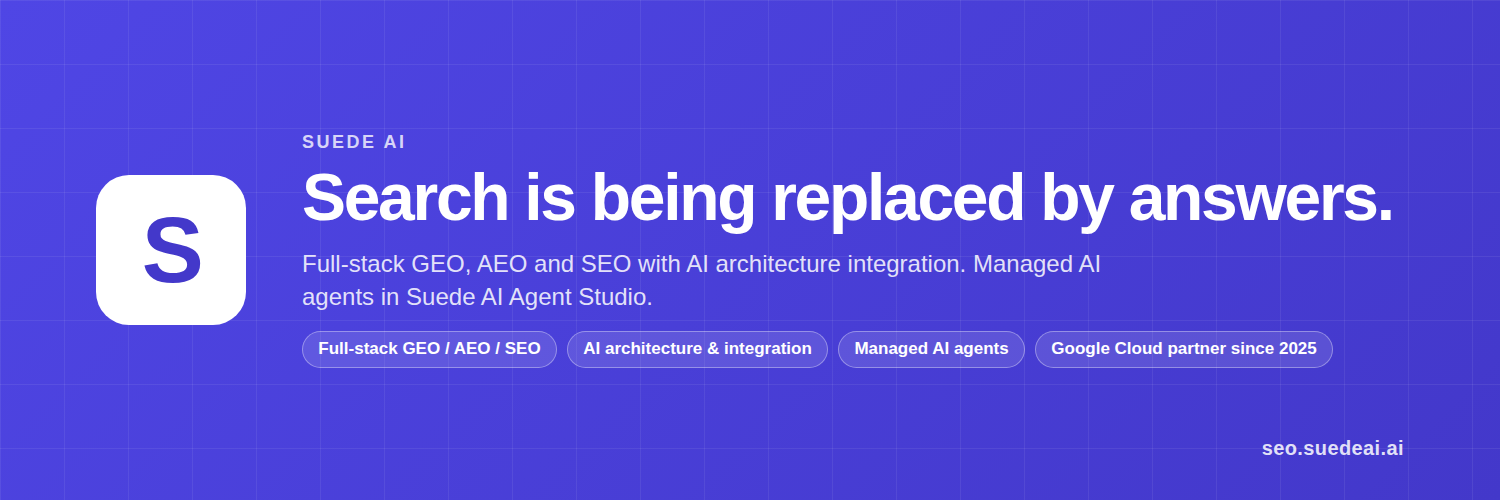
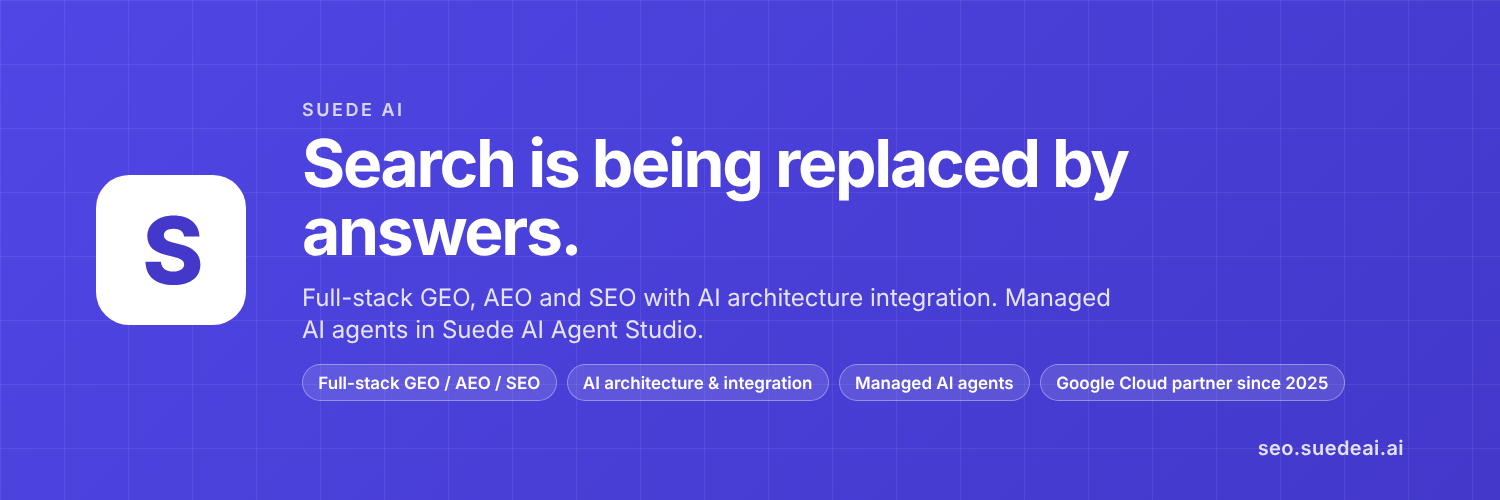
profile: bring every claim in line with the live counts and seo.suedeai.ai
The weekly guard has failed on main since 2026-09-28: the live count is
54 merged pull requests across 46 repositories, and the README still said
50 across 44. The four missing merges are coreos/ignition#2301 and #2302,
TurboDocx/html-to-docx#229 and XRPLF/xrpl.js#3430, all named in the
personal profile's changelog. Their diff stats come from the upstream
merge commits (+500 / -16), reproduced the same way for #2303 and #2326
first, which match the figures already published here. The split is
restated as 33 substantive and 21 listings, the same as every other
surface.

The social kit carried the count too, and nothing checked it: the
LinkedIn headline said 50 and the X founder header said 49. The guard now
audits both files, and two tests compare them with the README on every
pull request, so the next drift fails CI. Its messages name the file
that drifted.

Other facts aligned with the canonical record at seo.suedeai.ai and the
personal profile:

- 30-minute call, not 15 (the site says 30-minute throughout)
- West Palm Beach, Florida, matching the practice's schema address
- info@suedeai.ai as the contact, the address leads are routed to
- the offer ladder: free teardown, fixed-fee 30-day sprint quoted case
  by case, then the monthly SEO and GEO retainer
- thirteen feature placements across seven outlets, now including
  Gigawatt Group and MSN
- fifteen skills catalogs, adding davepoon/buildwithclaude#305
[…]

diff --git a/social/images-src/x-header-founder.html b/social/images-src/x-header-founder.html
@@ -45,6 +45,6 @@
     <div class="mark" style="width:150px;height:150px;font-size:93px">S</div>
     <div class="text"><div class="kicker">Jason Colapietro · Founder, Suede AI</div><h1>I ship the fixes AI answers are built from.</h1>
       <div class="lede">Full-stack GEO, AEO and SEO with AI architecture integration, delivered as pull requests with a source diff.</div>
-      <div class="chips"><span class="chip">Full-stack GEO / AEO / SEO</span><span class="chip">AI architecture & integration</span><span class="chip">49 upstream PRs merged</span><span class="chip">Five books</span></div>
+      <div class="chips"><span class="chip">Full-stack GEO / AEO / SEO</span><span class="chip">AI architecture & integration</span><span class="chip">54 upstream PRs merged</span><span class="chip">Eight books</span></div>
     </div>
   </div><div class="url">seo.suedeai.ai</div></div></body></html>

diff --git a/profile/README.md b/profile/README.md
@@ -2,15 +2,15 @@
 
 **Full-stack GEO, AEO and SEO with AI architecture integration — founder of [Suede AI](https://seo.suedeai.ai)**  
 I make companies the answer when ChatGPT, Perplexity, Gemini and Google’s AI results get asked about their category, then wire AI into the operation behind the answer.  
-Jupiter / West Palm Beach, Florida · [Book a 15-minute call](https://calendar.app.google/8FyvYAspZaQFFP5eA) · [(561) 401-0518](tel:+15614010518)
+West Palm Beach, Florida · [Book a 30-minute call](https://calendar.app.google/8FyvYAspZaQFFP5eA) · [(561) 401-0518](tel:+15614010518)
 
 [![Free AI Citation Check](https://img.shields.io/badge/free-AI%20citation%20check-ff6f00?style=for-the-badge&logo=perplexity&logoColor=white)](https://seo.suedeai.ai/ai-citation-check)
 [![Google Cloud](https://img.shields.io/badge/Google%20Cloud%20partner-Vertex%20AI-4285F4?style=for-the-badge&logo=googlecloud&logoColor=white)](https://seo.suedeai.ai)
 [![Contributions](https://img.shields.io/badge/contributions%20since%20May-12%2C280-181717?style=for-the-badge&logo=git&logoColor=white)](https://github.com/JasonColapietro)
-[![Upstream merged](https://img.shields.io/badge/upstream%20merged-50%20PRs%20%2F%2044%20repos-2ea44f?style=for-the-badge&logo=github&logoColor=white)](#selected-upstream-contributions)
+[![Upstream merged](https://img.shields.io/badge/upstream%20merged-54%20PRs%20%2F%2046%20repos-2ea44f?style=for-the-badge&logo=github&logoColor=white)](#selected-upstream-contributions)
 [![Open-source skills](https://img.shields.io/badge/open--source%20skills-76-8A2BE2?style=for-the-badge&logo=anthropic&logoColor=white)](#skill-catalogs--awesome-lists)
-[![Patent](https://img.shields.io/badge/USPTO-63%2F947%2C120%20pending-0A66C2?style=for-the-badge)](https://suedeai.ai)
-[![Book a call](https://img.shields.io/badge/book%20a%2015--min%20call-open%20calendar-1a7f37?style=for-the-badge&logo=googlecalendar&logoColor=white)](https://calendar.app.google/8FyvYAspZaQFFP5eA)
+[![Patents](https://img.shields.io/badge/USPTO-5%20provisional%20applications-0A66C2?style=for-the-badge)](https://suedeai.ai)
+[![Book a call](https://img.shields.io/badge/book%20a%2030--min%20call-open%20calendar-1a7f37?style=for-the-badge&logo=googlecalendar&logoColor=white)](https://calendar.app.google/8FyvYAspZaQFFP5eA)
 
 <p align="left">
   <img height="165" src="https://github-readme-stats.vercel.app/api?username=JasonColapietro&show_icons=true&include_all_commits=true&count_private=true&hide_border=true&theme=github_dark&custom_title=Jason%20Colapietro%20%E2%80%94%2012%2C280%20contributions" alt="GitHub stats" />
@@ -29,21 +29,21 @@ What separates this from the rest of the category is that I ship the fixes. Most
 
 | | |
 |---|---|
-| **Free** | [AI Citation Check](https://seo.suedeai.ai/ai-citation-check) &mdash; four buyer questions put to real engines, and which sites they cited instead of you |
-| **Then** | A 30-day answer-share sprint at a fixed fee, measured before and after on a prompt set you approve |
-| **Then** | Managed agents on a monthly retainer, reported against the same prompts |
+| **Free** | The teardown, back within three business days: your answer share, the buyer prompts where an engine named someone else, and a prioritized fix list. Or run the self-serve [AI Citation Check](https://seo.suedeai.ai/ai-citation-check) first |
+| **Then** | A fixed-fee 30-day answer-share sprint, quoted case by case, measured before and after on a prompt set you approve |
+| **Then** | Compound: a monthly SEO and GEO retainer that builds on the sprint, reported against the same prompts |
 
-[Book 15 minutes](https://calendar.app.google/8FyvYAspZaQFFP5eA) &middot; [(561) 401-0518](tel:+15614010518) &middot; [info@suedeai.ai](mailto:info@suedeai.ai)
+[Book 30 minutes](https://calendar.app.google/8FyvYAspZaQFFP5eA) &middot; [(561) 401-0518](tel:+15614010518) &middot; [info@suedeai.ai](mailto:info@suedeai.ai)
 
 ### Eight lanes, one firm
 
 Full-stack GEO &middot; AI architecture and integration &middot; entity records and search &middot; press and reputation &middot; AI operations &middot; managed AI agents in Suede AI Agent Studio &middot; fractional forward-deployed engineer &middot; IP and rights integration
 
-In partnership with Google Cloud since September 2025, running on Vertex AI. Eleven feature placements across Business Insider, TechBullion, Programming Insider, Altcoin Investor and Indie Hackers. Thirty-plus live sites and nine iOS apps shipped and operated.
+In partnership with Google Cloud since September 2025, running on Vertex AI. Thirteen feature placements across seven outlets: Gigawatt Group, MSN, Business Insider, TechBullion, Programming Insider, Altcoin Investor and Indie Hackers. Thirty-plus live sites and nine iOS apps shipped and operated.
 
 ---
 
-I came to this sideways. Two decades chasing guitar tone taught me the signal chain, pickups through amp to speaker, where every link either passes the signal or eats it. Answer engines work the same way. So does the royalty chain, which is why I also built the [Suede AI](https://suedeai.ai) product side: proof of authorship, programmable licensing and payment rails for creators, USPTO patent filed. Five books along the way.
+I came to this sideways. Two decades chasing guitar tone taught me the signal chain, pickups through amp to speaker, where every link either passes the signal or eats it. Answer engines work the same way. So does the royalty chain, which is why I also built the [Suede AI](https://suedeai.ai) product side: proof of authorship, programmable licensing and payment rails for creators, five USPTO provisional patent applications filed. Eight books along the way, five of them on Amazon.
 
 ---
 
@@ -68,12 +68,16 @@ Accepted into codebases I don't own. Every link goes to the merged pull request.
 | [**Solana Pay Kit**](https://github.com/solana-foundation/pay-kit/pull/299) *(73★)* | Modernize Pay Kit protocol references | +265 / −335 |
 | [**coreos/ignition**](https://github.com/coreos/ignition/pull/2303) *(974★)* | Restore Butane config coverage in the docs checker, 3 files | +126 / −32 |
 | [**coreos/ignition**](https://github.com/coreos/ignition/pull/2326) *(974★)* | Drop the duplicate Butane docs check | +1 / −31 |
+| [**coreos/ignition**](https://github.com/coreos/ignition/pull/2301) *(974★)* | Drop the caller's supplementary groups when switching to a target user, 3 files | +125 / −1 |
+| [**coreos/ignition**](https://github.com/coreos/ignition/pull/2302) *(974★)* | File append and overwrite examples in the Butane docs | +48 / −0 |
 | [**elizaOS**](https://github.com/elizaOS/eliza/pull/25122) *(19.4k★)* | Bound Discord IPC frame payload length | +13 / −0 |
 
 ### Also merged
 
 | Project | Contribution |
 |---|---|
+| [html-to-docx](https://github.com/TurboDocx/html-to-docx/pull/229) | Render a `<table>` nested inside a list item instead of dropping it, 4 files |
+| [xrpl.js](https://github.com/XRPLF/xrpl.js/pull/3430) | Use the network base fee for VaultCreate autofill |
 | [nautobot](https://github.com/nautobot/nautobot/pull/9359) | Correct Celery queues flag in docs |
 | [prometheus/docs](https://github.com/prometheus/docs/pull/3053) | Update TSDB storage comparison |
 | [avoid-ai-writing](https://github.com/conorbronsdon/avoid-ai-writing/pull/106) | Docs correction |
@@ -87,22 +91,21 @@ Accepted into codebases I don't own. Every link goes to the merged pull request.
 | [xupersplit](https://github.com/kanylbullen/xupersplit/pull/86) | Escape legal page apostrophes |
 | [backcheck](https://github.com/VectorInstitute/backcheck/pull/12) | Vector Institute — validation fix |
 | [Ledger_c](https://github.com/Din-es/Ledger_c/pull/11) | C ledger work, 6 files |
-| [buildwithclaude](https://github.com/davepoon/buildwithclaude/pull/305) | Add the suede-skills plugin |
 | [awesome-ai-tools](https://github.com/aliammari1/awesome-ai-tools/pull/60) | Catalog listing *(Suede-AI account)* |
 | [awesome-ai-tools](https://github.com/pingan8787/awesome-ai-tools/pull/103) | Catalog listing *(Suede-AI account)* |
 | [awesome-ai-tools](https://github.com/eudk/awesome-ai-tools/pull/210) | Catalog listing *(Suede-AI account)* |
 
-Plus a USB/IP patch series submitted upstream to the Linux kernel ([v2–v6 on lore.kernel.org](https://lore.kernel.org/linux-usb/)).
+Plus a USB/IP patch series submitted upstream to the Linux kernel ([v2–v7 on lore.kernel.org](https://lore.kernel.org/linux-usb/)).
 
-**Totals:** 50 merged pull requests across 44 repositories I do not maintain, 8 of them 5,000+ stars · **+2,668 / −688** lines changed upstream on the substantive work listed above.
+**Totals:** 54 merged pull requests across 46 repositories I do not maintain, 8 of them 5,000+ stars · **+3,168 / −704** lines changed upstream on the substantive work listed above.
 
-That 50 counts the verified `JasonColapietro` and `Suede-AI` accounts together, and splits into **29 substantive code or documentation contributions** and **21 accepted listings** of my own work on catalog repositories. The Linux kernel USB/IP series is under review at v7, not merged, and is not counted in the 50.
+That 54 counts the verified `JasonColapietro` and `Suede-AI` accounts together, and splits into **33 substantive code or documentation contributions** and **21 accepted listings** of my own work on catalog repositories. The Linux kernel USB/IP series is under review at v7, not merged, and is not counted in the 54.
 
 ---
 
 ## Skill catalogs & awesome lists
 
-[Suede Creator Skills](https://skills.suedeai.ai) — 76 open-source agent skills for Claude Code and Codex — has been reviewed and merged into fourteen independent catalogs I don't maintain. Every link is the merged pull request.
+[Suede Creator Skills](https://skills.suedeai.ai) — 76 open-source agent skills for Claude Code and Codex — has been reviewed and merged into fifteen independent catalogs I don't maintain. Every link is the merged pull request.
 
 | Catalog | Merged |
 |---|---|
@@ -119,6 +122,7 @@ That 50 counts the verified `JasonColapietro` and `Suede-AI` accounts together, 
 | [hashgraph-online/awesome-ai-plugins](https://github.com/hashgraph-online/awesome-ai-plugins) | [#148](https://github.com/hashgraph-online/awesome-ai-plugins/pull/148) |
 | [yzfly/awesome-skills-zh](https://github.com/yzfly/awesome-skills-zh) | [#14](https://github.com/yzfly/awesome-skills-zh/pull/14) |
 | [ichangyou/awesome-codex](https://github.com/ichangyou/awesome-codex) | [#2](https://github.com/ichangyou/awesome-codex/pull/2) |
+| [davepoon/buildwithclaude](https://github.com/davepoon/buildwithclaude) | [#305](https://github.com/davepoon/buildwithclaude/pull/305) |
 | [ichangyou/awesome-claude-code](https://github.com/ichangyou/awesome-claude-code) | [#9](https://github.com/ichangyou/awesome-claude-code/pull/9) |
 
 Suede AI Agent Studio is also listed in [xpaysh/awesome-x402](https://github.com/xpaysh/awesome-x402/pull/518), and `@suedeai/plugin-suede` in the [elizaOS plugin registry](https://github.com/elizaOS/eliza/pull/19210).
@@ -127,10 +131,15 @@ Suede AI Agent Studio is also listed in [xpaysh/awesome-x402](https://github.com
 
 ### Books
 
+Eight books: five on Amazon, three published independently.
+
+**[The Screenshot](https://seo.suedeai.ai/book)** — free, [source on GitHub](https://github.com/JasonColapietro/suede-geo-book)  
+Why AI recommends your competitors, and how to fix it. The full method behind the GEO practice, in eleven chapters.
+
 **[The Signal Chain](https://guitar.solutions)** — 3 editions: Standard, Deluxe, Workbook  
 The full history of guitar amplifiers, effects, and the pursuit of electric tone. Free.
 
-**[The Guitar Without a Number](https://www.amazon.com/dp/B0GD5FX6N6)** — Kindle  
+**[The Guitar Without a Number](https://strumly.suedeai.ai/book/catalog)** — published independently  
 Memoir-driven instruction for the self-taught player: modes, voice leading, 13 artist songbooks, gear, and the music IP rights chapter no other guitar book includes.
 
 **[Suede Labs: The Human Authenticity Layer](https://www.amazon.com/dp/B0GD5FX6N6)** — Kindle  
@@ -141,6 +150,12 @@ How to build systems that hold up when nobody trusts anybody: proof baked in, no
 
 **[Stake Your Claim](https://www.amazon.com/dp/B0GRG8LGQQ)** — Kindle  
 Hard truths about turning the AI era into a real asset for creators.
+
+**[The Claude Code Bible](https://www.amazon.com/dp/B0HHTMJWB4)** — Kindle  
+The operator's manual for running Claude Code and AI coding agents as real infrastructure rather than a demo.
+
+**[Codex in Production](https://www.amazon.com/dp/B0HHTF3LG1)** — Kindle  
+Running OpenAI Codex in production: AGENTS.md, worktrees, skills, security, and agent work that outlives a single session.
 
 ---
 
@@ -158,11 +173,11 @@ Read the method: [What is GEO and AEO?](https://seo.suedeai.ai/what-is-geo) · [
 
 **[Suede AI](https://suedeai.ai)** — the product side: creator ownership infrastructure for the AI media era.
 
-- Proof of creation and cryptographic media registration, USPTO 63/947,120 filed
+- Proof of creation and cryptographic media registration, USPTO provisional 63/947,120 filed, one of five provisional applications
 - Programmable IP licensing and royalty routing on Base/USDC and Solana
 - x402 micropayment layer: AI agents buy licenses autonomously, value flows to creators at the moment of use
 
-Live: [IP Registry](https://ip.suedeai.ai) · [Suede AI Agent Studio](https://agents.suedeai.ai) · [GEO/AEO](https://seo.suedeai.ai)
+Live: [Proof of creation](https://suedeai.ai/proof-of-creation) · [Suede AI Agent Studio](https://agents.suedeai.ai) · [GEO/AEO](https://seo.suedeai.ai)
 
 I write it up weekly at **[jasoncolapietro.substack.com](https://jasoncolapietro.substack.com)** — AI search visibility, what the engines are actually citing, and the work done in public.
 
@@ -188,10 +203,10 @@ I write it up weekly at **[jasoncolapietro.substack.com](https://jasoncolapietro
 
 ### Connect
 
-**Book a call** · [15 minutes, pick a time](https://calendar.app.google/8FyvYAspZaQFFP5eA)  
+**Book a call** · [30 minutes, pick a time](https://calendar.app.google/8FyvYAspZaQFFP5eA)  
 **Phone** · [(561) 401-0518](tel:+15614010518)  
-**Email** · [johnny@suedeai.ai](mailto:johnny@suedeai.ai) · press: [press@suedeai.ai](mailto:press@suedeai.ai)  
-**Based in** · Jupiter / West Palm Beach, Florida
+**Email** · [info@suedeai.ai](mailto:info@suedeai.ai) · press: [press@suedeai.ai](mailto:press@suedeai.ai)  
+**Based in** · West Palm Beach, Florida
 
 | Where | Link |
 |---|---|

diff --git a/social/PROFILES.md b/social/PROFILES.md
@@ -22,19 +22,19 @@ Character counts are given so each field pastes without truncation.
 
 ## X — @AISUEDE (brand)
 
-**Name** (39/50)
+**Name** (37/50)
 
 ```
 Suede AI | GEO, SEO & AI Architecture
 ```
 
-**Bio** (159/160)
+**Bio** (157/160)
 
 ```
 Full-stack GEO, AEO & SEO with AI architecture integration. Managed AI agents in Suede AI Agent Studio. Google Cloud partner. By @Johnnysuede. seo.suedeai.ai
 ```
 
-**Location**: `Jupiter / West Palm Beach, FL`
+**Location**: `West Palm Beach, FL`
 **Website**: `https://seo.suedeai.ai`
 **Header**: `images/x-header-brand.png` (1500×500)
 **Avatar**: `images/avatar-brand.png` (1200×1200, indigo field, white S mark)
@@ -55,19 +55,19 @@ Receipts, dated: seo.suedeai.ai/evidence
 
 ## X — @Johnnysuede (founder)
 
-**Name** (32/50)
+**Name** (27/50)
 
 ```
 Jason Colapietro | Suede AI
 ```
 
-**Bio** (158/160)
+**Bio** (153/160)
 
 ```
-Founder, Suede AI. Full-stack GEO, AEO & SEO with AI architecture integration. I ship fixes as PRs. Google Cloud partner. 5 books. Jupiter, FL. seo.suedeai.ai
+Founder, Suede AI. Full-stack GEO, AEO & SEO with AI architecture integration. I ship fixes as PRs. Google Cloud partner. West Palm Beach. seo.suedeai.ai
 ```
 
-**Location**: `Jupiter / West Palm Beach, FL`
+**Location**: `West Palm Beach, FL`
 **Website**: `https://seo.suedeai.ai`
 **Header**: `images/x-header-founder.png` (1500×500)
 **Avatar**: keep the current photo. `images/avatar-founder.png` is the wordmark fallback.
@@ -76,13 +76,13 @@ Founder, Suede AI. Full-stack GEO, AEO & SEO with AI architecture integration. I
 
 ## Instagram — @suedeai
 
-**Name** (28/30)
+**Name** (27/30)
 
 ```
 Suede AI | SEO & AI Systems
 ```
 
-**Bio** (148/150, four lines)
+**Bio** (138/150, four lines)
 
 ```
 Full-stack GEO, AEO & SEO
@@ -148,7 +148,7 @@ Suede AI, founded by Jason Colapietro. Full-stack GEO, AEO and SEO: we measure w
 Suede AI
 ```
 
-**Tagline** (118/120)
+**Tagline** (111/120)
 
 ```
 Full-stack GEO, AEO & SEO with AI architecture integration. Managed AI agents. Google Cloud partner since 2025.
@@ -169,7 +169,7 @@ Integrate. AI architecture for the business behind the pages: workflow automatio
 
 Receipts. Everything is published, dated and re-measured against the same prompts.
 
-In partnership with Google Cloud since September 2025, running on Vertex AI. Founded by Jason Colapietro, Jupiter / West Palm Beach, Florida.
+In partnership with Google Cloud since September 2025, running on Vertex AI. Founded by Jason Colapietro, West Palm Beach, Florida.
 
 Start with the free AI Citation Check: https://seo.suedeai.ai/ai-citation-check
 ```
@@ -186,10 +186,10 @@ Start with the free AI Citation Check: https://seo.suedeai.ai/ai-citation-check
 
 Jason edits this one himself. Copy to paste:
 
-**Headline** (191/220)
+**Headline** (195/220)
 
 ```
-Founder, Suede AI · Full-stack GEO, AEO & SEO with AI architecture integration · Managed AI agents in Suede AI Agent Studio · Google Cloud partner · 50 upstream PRs merged · Author of five books
+Founder, Suede AI · Full-stack GEO, AEO & SEO with AI architecture integration · Managed AI agents in Suede AI Agent Studio · Google Cloud partner · 54 upstream PRs merged · Author of eight books
 ```
 
 **Cover**: `images/li-cover-founder.png` (1584×396)
@@ -198,19 +198,19 @@ Founder, Suede AI · Full-stack GEO, AEO & SEO with AI architecture integration 
 
 ## GitHub
 
-**Organization `Suede-AI`** — display name `Suede AI`, bio (156/160):
+**Organization `Suede-AI`** — display name `Suede AI`, bio (154/160):
 
 ```
 Full-stack GEO, AEO & SEO with AI architecture integration. Managed AI agents in Suede AI Agent Studio. Google Cloud partner. Founded by Jason Colapietro.
 ```
 
-Location `Jupiter / West Palm Beach, FL`, website `https://seo.suedeai.ai`. The org profile README
+Location `West Palm Beach, FL`, website `https://seo.suedeai.ai`. The org profile README
 in this repository (`profile/README.md`) already carries the full positioning.
 
-**User `JasonColapietro`** — bio (158/160):
+**User `JasonColapietro`** — bio (159/160):
 
 ```
-Founder, Suede AI. Full-stack GEO, AEO & SEO with AI architecture integration. I ship the fixes as PRs. Google Cloud partner. Five books. Jupiter, FL.
+Founder, Suede AI. Full-stack GEO, AEO & SEO with AI architecture integration. I ship the fixes as PRs. Google Cloud partner. Eight books. West Palm Beach, FL.
 ```
 
 ---
@@ -218,7 +218,7 @@ Founder, Suede AI. Full-stack GEO, AEO & SEO with AI architecture integration. I
 ## Telegram — t.me/suedeai
 
 **Title**: `Suede AI`
-**Description** (231/255):
+**Description** (218/255):
 
 ```
 Suede AI. Full-stack GEO, AEO & SEO with AI architecture integration, managed AI agents in Suede AI Agent Studio, and creator ownership rails. Google Cloud partner. Founded by Jason Colapietro. Services: seo.suedeai.ai
@@ -237,7 +237,7 @@ Suede AI makes companies the answer when ChatGPT, Perplexity, Gemini and Google'
 
 Full-stack GEO, AEO and SEO, shipped as pull requests with a source diff. AI architecture and integration. Managed AI agents you can watch running live in Suede AI Agent Studio. A fractional forward-deployed engineer for operations that need triage.
 
-In partnership with Google Cloud since September 2025. Founded by Jason Colapietro, Jupiter / West Palm Beach, Florida.
+In partnership with Google Cloud since September 2025. Founded by Jason Colapietro, West Palm Beach, Florida.
 
 Free AI Citation Check: https://seo.suedeai.ai/ai-citation-check
 Services: https://seo.suedeai.ai
@@ -275,3 +275,9 @@ AI search visibility, AI architecture and the work Suede AI does in public, week
   2026-09-14 with "Suede Labs AI" naming and no Agent Studio mention; both are superseded by
   the copy above. X banners live since 2026-08-28 use the navy/ivory institutional set and
   are superseded by the indigo Agent Studio set in `images/`.
+- 2026-10-11: counts and contact facts brought into line with seo.suedeai.ai and the live
+  guard: 54 upstream PRs (was 50 in the LinkedIn headline, 49 on the X founder header),
+  eight books (five on Amazon), and West Palm Beach, FL as the location, matching the
+  practice's schema address. Character counts re-measured; the X founder bio drops its book
+  count to stay under 160. All images re-rendered in Inter, the first installed face in the
+  font stack. The PR count in this kit is now checked by `scripts/check-profile-claims.mjs`.
